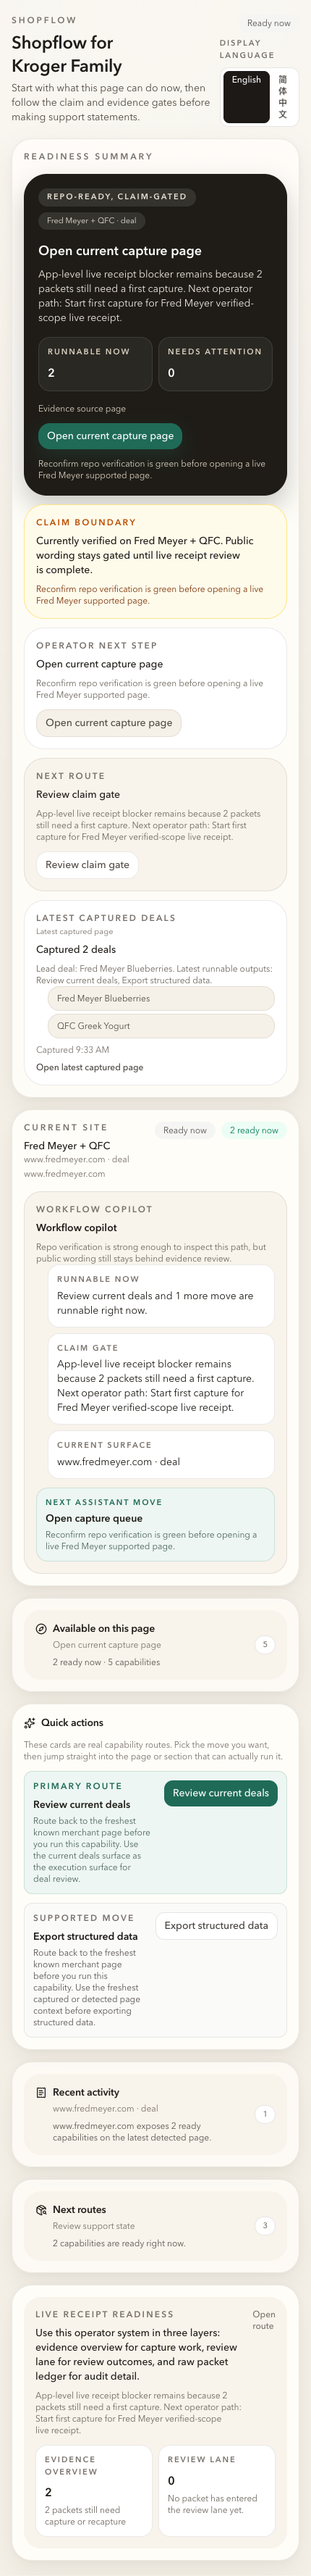
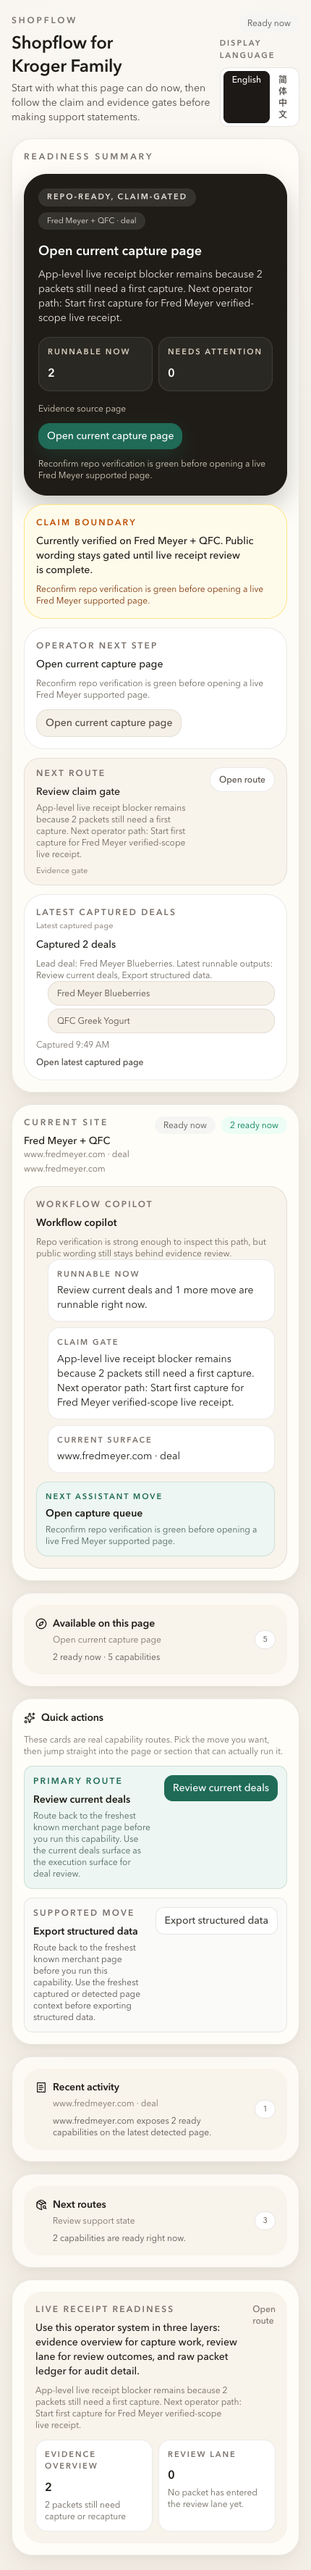
fix: deepen progressive disclosure polish (#40)

diff --git a/packages/ui/src/side-panel-home-page.tsx b/packages/ui/src/side-panel-home-page.tsx
@@ -242,27 +242,36 @@ export function SidePanelHomePage({
                 </section>
 
                 {followUpRoute && followUpRoute.href !== operatorRoute?.href ? (
-                  <section className="rounded-[1.75rem] border border-[rgba(58,49,38,0.10)] bg-[#f8f3eb] px-4 py-4 text-xs text-[#6c665d]">
-                    <p className="font-semibold uppercase tracking-[0.18em] text-stone-500">
-                      {copy.sidePanel.nextRoute}
-                    </p>
-                    <p className="mt-2 text-sm font-medium text-[#1f1c17]">
-                      {followUpRoute.label}
-                    </p>
-                    <p className="mt-2 text-xs text-[#6c665d]">
-                      {followUpRoute.summary}
-                    </p>
-                    <a
-                      className="mt-3 inline-flex rounded-2xl border border-[rgba(58,49,38,0.10)] bg-white px-3 py-2 text-sm font-medium text-[#514a42]"
-                      aria-label={copy.sidePanel.nextRouteAria(
-                        followUpRoute.label
-                      )}
-                      href={followUpRoute.href}
-                      target={followUpRoute.external ? '_blank' : undefined}
-                      rel={followUpRoute.external ? 'noreferrer' : undefined}
-                    >
-                      {followUpRoute.label}
-                    </a>
+                  <section className="rounded-[1.35rem] border border-[rgba(58,49,38,0.10)] bg-[#f8f3eb] px-4 py-3 text-xs text-[#6c665d]">
+                    <div className="flex items-start justify-between gap-3">
+                      <div className="min-w-0">
+                        <p className="font-semibold uppercase tracking-[0.18em] text-stone-500">
+                          {copy.sidePanel.nextRoute}
+                        </p>
+                        <p className="mt-2 text-sm font-medium text-[#1f1c17]">
+                          {followUpRoute.label}
+                        </p>
+                        <p className="mt-1 text-xs text-[#6c665d]">
+                          {followUpRoute.summary}
+                        </p>
+                      </div>
+                      <a
+                        className="inline-flex shrink-0 rounded-full border border-[rgba(58,49,38,0.10)] bg-white px-3 py-2 text-xs font-medium text-[#514a42]"
+                        aria-label={copy.sidePanel.nextRouteAria(
+                          followUpRoute.label
+                        )}
+                        href={followUpRoute.href}
+                        target={followUpRoute.external ? '_blank' : undefined}
+                        rel={followUpRoute.external ? 'noreferrer' : undefined}
+                      >
+                        {copy.sidePanel.openRoute}
+                      </a>
+                    </div>
+                    {followUpRoute.originLabel ? (
+                      <p className="mt-2 text-[11px] text-stone-500">
+                        {followUpRoute.originLabel}
+                      </p>
+                    ) : null}
                   </section>
                 ) : null}
 

diff --git a/apps/ext-shopping-suite/src/suite-alpha-page.tsx b/apps/ext-shopping-suite/src/suite-alpha-page.tsx
@@ -275,26 +275,25 @@ export function SuiteAlphaPage({
                         localizedAppDefinition.operatorPromise}
                     </p>
                   </div>
-                  <div className="mt-4 space-y-2">
-                    {localizedAppDefinition.startHere.map((item, index) => (
-                      <div
-                        key={item.title}
-                        className={`rounded-[1.25rem] border border-stone-200 bg-stone-50 px-3 py-3 ${
-                          index === 0 ? 'shadow-[0_10px_24px_rgba(58,49,38,0.06)]' : ''
-                        }`}
-                      >
-                        <p className="text-sm font-medium text-stone-900">
-                          {item.title}
-                        </p>
-                        <p className="mt-1 text-xs text-stone-600">
-                          {item.summary}
-                        </p>
-                        <a
-                          className="mt-3 inline-flex rounded-xl border border-stone-200 bg-white px-3 py-2 text-xs font-medium text-stone-700"
-                          href={item.href}
-                        >
-                          {item.ctaLabel}
-                        </a>
+                  <div className="mt-4 divide-y divide-[rgba(58,49,38,0.10)] rounded-[1.25rem] border border-stone-200 bg-stone-50 px-3">
+                    {localizedAppDefinition.startHere.map((item) => (
+                      <div key={item.title} className="py-3">
+                        <div className="flex items-start justify-between gap-3">
+                          <div className="min-w-0">
+                            <p className="text-sm font-medium text-stone-900">
+                              {item.title}
+                            </p>
+                            <p className="mt-1 text-xs text-stone-600">
+                              {item.summary}
+                            </p>
+                          </div>
+                          <a
+                            className="inline-flex shrink-0 rounded-full border border-stone-200 bg-white px-3 py-2 text-xs font-medium text-stone-700"
+                            href={item.href}
+                          >
+                            {item.ctaLabel}
+                          </a>
+                        </div>
                       </div>
                     ))}
                   </div>

diff --git a/packages/ui/src/popup-launcher.tsx b/packages/ui/src/popup-launcher.tsx
@@ -113,7 +113,7 @@ export function PopupLauncher({
   const actionDrawerCount =
     extraStructuredActionItems.length +
     labelOnlyActionItems.length +
-    supportingDetails.length;
+    (supportingDetails.length > 0 ? 1 : 0);
   const actionDrawerHeading = featuredActionItem
     ? copy.popup.supportingRoutesHeading
     : resolvedActionHeading;
